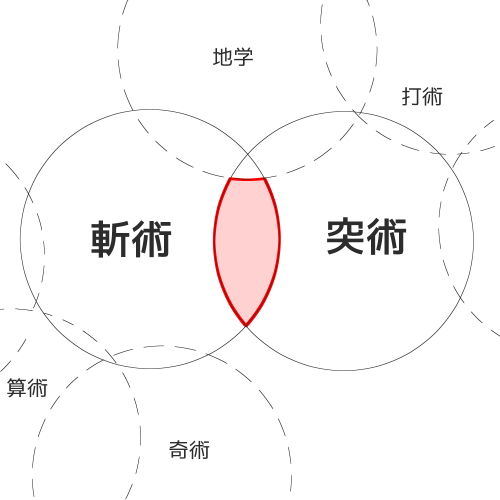
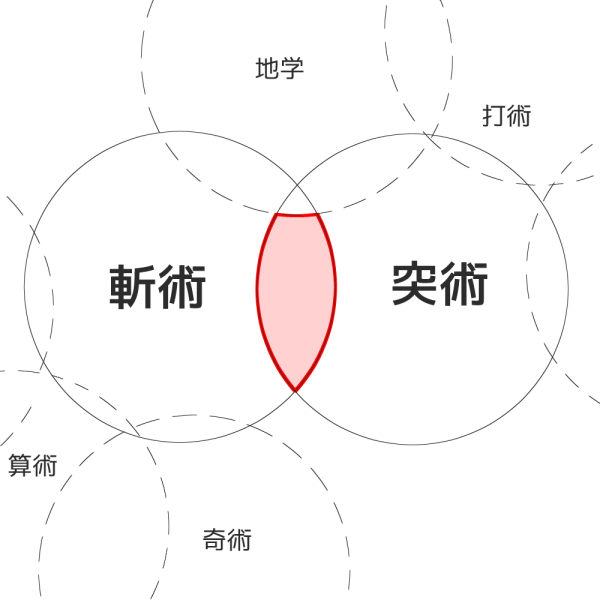
[変更]画像サイズ

diff --git a/app/assets/stylesheets/application.scss b/app/assets/stylesheets/application.scss
@@ -220,15 +220,15 @@ ul.image_checkbox li {
 }
 
 ul.image_checkbox li .check_div .image_box{
-    width:250px;
-    height:250px;
+    width:300px;
+    height:300px;
     margin: auto;
     position: relative;
 }
 
 .image_box .image_frame{
-    width:250px;
-    height:250px;
+    width:300px;
+    height:300px;
     border: 6px solid transparent;
     cursor:pointer;
 }
